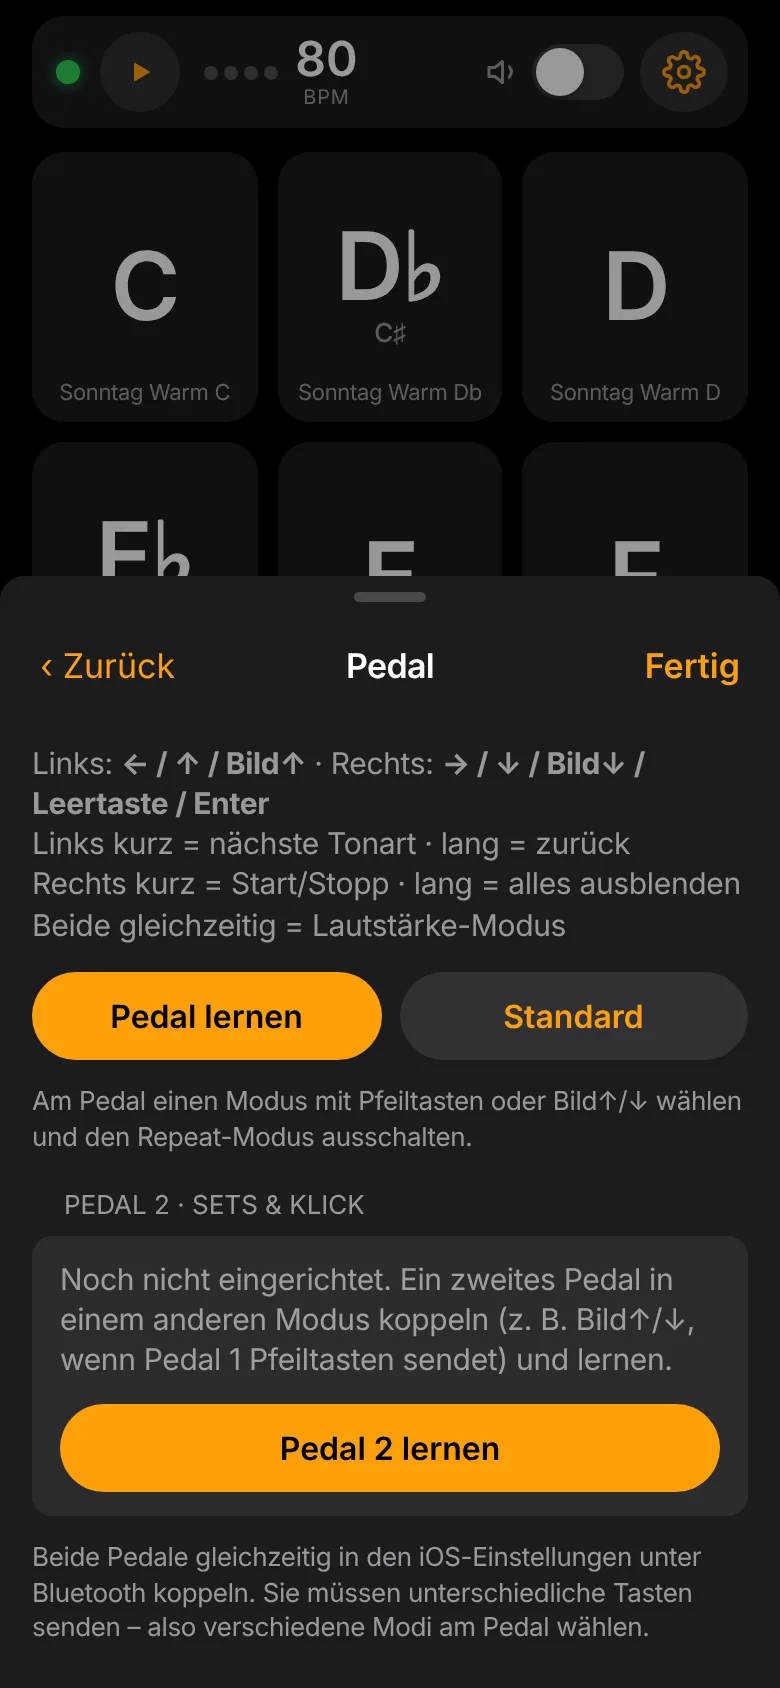
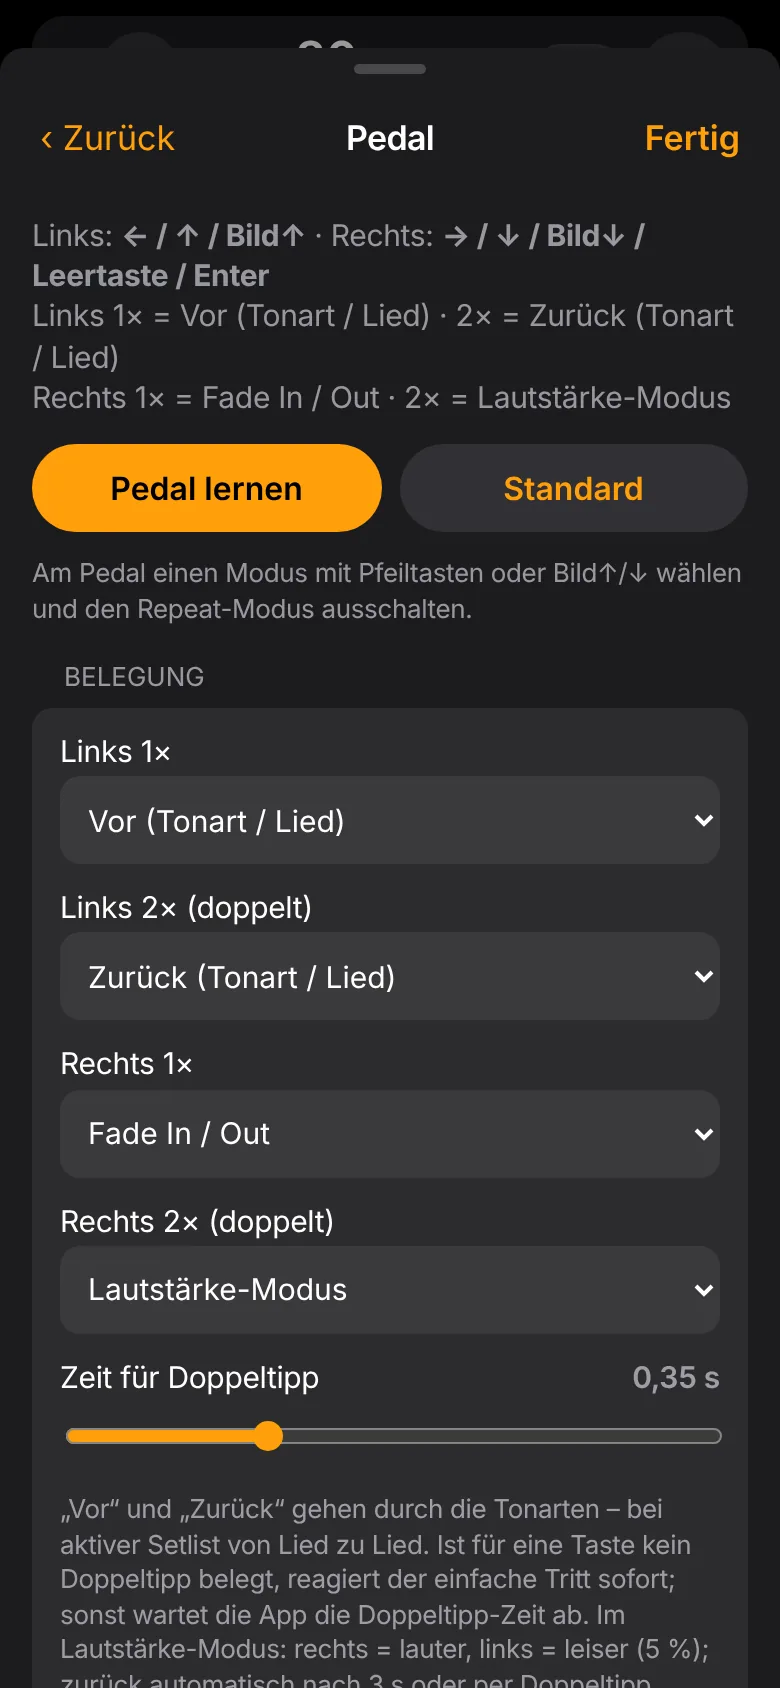
Version 3.2.0: Pedal 1 frei belegbar (Links/Rechts × 1×/2×: Vor, Zurück, Fade In/Out, Lautstärke-Modus, nichts), Doppeltipp-Zeit einstellbar; Anleitung angepasst
Claude-Session: https://claude.ai/code/session_0147wDrskXbm4k3nvnf9uujt

diff --git a/index.html b/index.html
@@ -587,8 +587,16 @@ body.muted .mrow2 input,body.muted .mrow2 .pct{opacity:.4}
     <p id="pedalInfo"></p>
     <div class="row"><button class="btn accent" id="learnBtn">Pedal lernen</button><button class="btn" id="pedalReset">Standard</button></div>
     <p class="hint">Am Pedal einen Modus mit Pfeiltasten oder Bild↑/↓ wählen und den Repeat-Modus ausschalten.</p>
-    <div class="group" id="p_bothRow"><label><span>Beide Tasten gleichzeitig</span><select id="p_both"><option value="fade">Alles ausblenden</option><option value="volume">Lautstärke-Modus</option></select></label>
-      <p class="hint">Dein Pedal meldet kein langes Drücken. Wähle, was ein gleichzeitiger Tritt auf beide Tasten tun soll. Im Lautstärke-Modus: rechts = lauter, links = leiser (je 5 %), zurück automatisch nach 3 Sekunden.</p></div>
+    <h3>Belegung</h3>
+    <div class="group" id="p_map">
+      <label><span>Links 1×</span><select id="pm_lt"><option value="next">Vor (Tonart / Lied)</option><option value="prev">Zurück (Tonart / Lied)</option><option value="fade">Fade In / Out</option><option value="volume">Lautstärke-Modus</option><option value="none">– nichts –</option></select></label>
+      <label><span>Links 2× (doppelt)</span><select id="pm_ld"><option value="next">Vor (Tonart / Lied)</option><option value="prev">Zurück (Tonart / Lied)</option><option value="fade">Fade In / Out</option><option value="volume">Lautstärke-Modus</option><option value="none">– nichts –</option></select></label>
+      <label><span>Rechts 1×</span><select id="pm_rt"><option value="next">Vor (Tonart / Lied)</option><option value="prev">Zurück (Tonart / Lied)</option><option value="fade">Fade In / Out</option><option value="volume">Lautstärke-Modus</option><option value="none">– nichts –</option></select></label>
+      <label><span>Rechts 2× (doppelt)</span><select id="pm_rd"><option value="next">Vor (Tonart / Lied)</option><option value="prev">Zurück (Tonart / Lied)</option><option value="fade">Fade In / Out</option><option value="volume">Lautstärke-Modus</option><option value="none">– nichts –</option></select></label>
+      <label><span>Zeit für Doppeltipp <b id="v_dbl"></b></span><input type="range" id="p_dbl" min="200" max="700" step="25"></label>
+      <p class="hint">„Vor“ und „Zurück“ gehen durch die Tonarten – bei aktiver Setlist von Lied zu Lied. Ist für eine Taste kein Doppeltipp belegt, reagiert der einfache Tritt sofort; sonst wartet die App die Doppeltipp-Zeit ab. Im Lautstärke-Modus: rechts = lauter, links = leiser (5 %); zurück automatisch nach 3 s oder per Doppeltipp.</p>
+      <div class="row"><button class="btn" id="pm_reset">Standard-Belegung</button></div>
+    </div>
     <h3>Pedal 2 · Sets &amp; Klick</h3>
     <div class="group"><p id="pedal2Info"></p>
       <div class="row"><button class="btn accent" id="learn2Btn">Pedal 2 lernen</button><button class="btn" id="pedal2Reset">Entfernen</button></div></div>
@@ -757,7 +765,7 @@ body.muted .mrow2 input,body.muted .mrow2 .pct{opacity:.4}
 
 <script>
 "use strict";
-const VERSION="3.1.0";
+const VERSION="3.2.0";
 // ================= Grundlagen =================
 const KEYS=[["C",null],["D♭","C♯"],["D",null],["E♭","D♯"],["E",null],["F",null],["F♯","G♭"],["G",null],["A♭","G♯"],["A",null],["B♭","A♯"],["B",null]];
 const SETCOLORS=["#ff9f33","#4fc3f7"];
@@ -1114,37 +1122,40 @@ const LONG_MS=600;
 const down={};            // side → {t, timer, longFired}
 let learning=null, lastSide=null, lastSideT=0, fallbackTimer=null, fallbackSide=null;
 function sideOf(key){ if(typeof side2==="function"&&side2(key))return null; if(P.left.includes(key))return "left"; if(P.right.includes(key))return "right"; return null; }
-function action(side,long){
-  if(side==="left"){ if(slOn()){long?stepSong(-1):stepSong(1);} else {long?stepSel(-1):stepSel(1);} }
-  else{ long?fadeAll(S.fadeOut):toggleKey(selected); }
+// ---- Pedal 1: frei belegbare Gesten (links/rechts × einmal/doppelt) ----
+const PEDAL_ACTIONS={next:"Vor (Tonart / Lied)",prev:"Zurück (Tonart / Lied)",fade:"Fade In / Out",volume:"Lautstärke-Modus",none:"– nichts –"};
+const PMAP_DEFAULT={lt:"next",ld:"prev",rt:"fade",rd:"volume"};
+P.map=Object.assign({},PMAP_DEFAULT,P.map||{});if(!P.dbl)P.dbl=350;
+function runPedal(act){
+  if(act==="next"){slOn()?stepSong(1):stepSel(1);}
+  else if(act==="prev"){slOn()?stepSong(-1):stepSel(-1);}
+  else if(act==="fade"){toggleKey(selected);}
+  else if(act==="volume"){volMode?exitVol():enterVol();}
 }
-// ---- Lautstärke-Modus: beide Tasten gleichzeitig → rechts = lauter, links = leiser (halten = stufenlos) ----
-let volMode=false,volExitT=null,volRampT=null,volRampI=null,volLast={left:0,right:0};
+// ---- Lautstärke-Modus: rechts = lauter, links = leiser (halten = stufenlos, falls das Pedal Halten meldet) ----
+let volMode=false,volExitT=null,volRampT=null,volRampI=null,volTap={left:0,right:0},volPrev={left:null,right:null};
 function volHud(){$("volHudVal").textContent=Math.round(S.master*100)+" %";$("volHudBar").style.width=Math.round(S.master*100)+"%";
-  $("volHudHint").innerHTML=P.hold?"rechts halten = lauter · links halten = leiser<br>zurück automatisch nach 3 s":"rechts = lauter · links = leiser<br>zurück automatisch nach 3 s";}
+  $("volHudHint").innerHTML="rechts = lauter · links = leiser"+(P.hold?" · halten = stufenlos":"")+"<br>zurück automatisch nach 3 s";}
 function volArm(){clearTimeout(volExitT);volExitT=setTimeout(()=>exitVol(),3000);}
-function enterVol(){volMode=true;volHud();$("volHud").hidden=false;updateLed();volArm();}
+function enterVol(){volMode=true;volTap={left:0,right:0};volHud();$("volHud").hidden=false;updateLed();volArm();}
 function exitVol(){volMode=false;clearTimeout(volExitT);clearTimeout(volRampT);clearInterval(volRampI);$("volHud").hidden=true;updateLed();}
 function volNudge(d){S.master=Math.round(Math.min(1,Math.max(0,S.master+d))*100)/100;saveSettings();applyMix(0.03);renderLayers();volHud();volArm();}
+const VOL_STEP=.05;
 function volKeyDown(side){
-  const now=performance.now(),other=side==="left"?"right":"left";
-  if(now-volLast[other]<180){exitVol();return;}             // beide gleichzeitig → zurück
-  volLast[side]=now;const dir=side==="right"?1:-1;
-  volNudge(dir*(P.hold?.02:.05));
+  const now=performance.now(),dir=side==="right"?1:-1,dbl=P.map[side==="left"?"ld":"rd"];
+  // Doppeltipp auf die Taste, die den Lautstärke-Modus öffnet → Modus verlassen (zweiten Schritt rückgängig)
+  if(dbl==="volume"&&now-volTap[side]<P.dbl){if(volPrev[side]!=null){S.master=volPrev[side];saveSettings();applyMix(0.03);renderLayers();}exitVol();return;}
+  volTap[side]=now;volPrev[side]=S.master;volNudge(dir*VOL_STEP);
   clearTimeout(volRampT);clearInterval(volRampI);
-  volRampT=setTimeout(()=>{volRampI=setInterval(()=>volNudge(dir*.01),60);},300);
+  volRampT=setTimeout(()=>{volRampI=setInterval(()=>volNudge(dir*.01),60);},350);
 }
 function volKeyUp(){clearTimeout(volRampT);clearInterval(volRampI);}
-function bothPressed(){ if(P.hold||P.both==="volume")enterVol(); else {fadeAll(S.fadeOut);toast("Alles ausblenden");} }
-function pedalEvent(side,isLong){
-  if(P.hold){action(side,isLong);return;}
-  // Fallback ohne Halten
-  const now=performance.now();
-  if(fallbackTimer&&fallbackSide&&fallbackSide!==side){clearTimeout(fallbackTimer);fallbackTimer=null;fallbackSide=null;bothPressed();return;}
-  if(side==="left"&&lastSide==="left"&&now-lastSideT<450){lastSide=null;if(slOn()){stepSong(-1);stepSong(-1);}else stepSel(-2);return;}
-  clearTimeout(fallbackTimer);fallbackSide=side;
-  fallbackTimer=setTimeout(()=>{fallbackTimer=null;fallbackSide=null;action(side,false);},130);
-  lastSide=side;lastSideT=now;
+const pend={left:null,right:null};
+function pedalTap(side){
+  const t=P.map[side==="left"?"lt":"rt"],d=P.map[side==="left"?"ld":"rd"];
+  if(d==="none"){runPedal(t);return;}                    // kein Doppeltipp belegt → sofort reagieren
+  if(pend[side]){clearTimeout(pend[side]);pend[side]=null;runPedal(d);return;}
+  pend[side]=setTimeout(()=>{pend[side]=null;runPedal(t);},P.dbl);
 }
 const typing=e=>e.target&&e.target.tagName==="INPUT"&&(e.target.type==="text"||e.target.type==="password");
 window.addEventListener("keydown",e=>{
@@ -1154,24 +1165,17 @@ window.addEventListener("keydown",e=>{
   e.preventDefault(); markPedal(e.key);
   if(e.repeat||down[side])return;
   unlockAudio();
-  if(volMode){down[side]={vol:true};volKeyDown(side);return;}
-  const now=performance.now(),other=side==="left"?"right":"left",o=down[other];
-  const d={t:now,longFired:false,timer:null};
-  if(P.hold&&o&&!o.longFired&&!o.combo&&now-o.t<250){   // beide Tasten gleichzeitig
-    clearTimeout(o.timer);o.combo=true;d.combo=true;down[side]=d;volLast={left:now,right:now};bothPressed();return;}
-  if(P.hold)d.timer=setTimeout(()=>{d.longFired=true;pedalEvent(side,true);},LONG_MS);
-  down[side]=d;
+  down[side]={t:performance.now()};
+  if(volMode){down[side].vol=true;volKeyDown(side);return;}
+  pedalTap(side);
 },true);
 window.addEventListener("keyup",e=>{
   if(typing(e))return;
   if(learning){e.preventDefault();learnKeyUp(e);return;}
   const side=sideOf(e.key); if(!side)return;
   e.preventDefault();
-  const d=down[side]; delete down[side]; if(!d)return;
-  if(d.vol){volKeyUp();return;}
-  if(d.combo){clearTimeout(d.timer);return;}
-  clearTimeout(d.timer);
-  if(!d.longFired)pedalEvent(side,false);
+  const d=down[side]; delete down[side];
+  if(d&&d.vol)volKeyUp();
 },true);
 function markPedal(key){ $("pedalState").textContent="✓ "+keyName(key); $("pedalState").className="okc"; }
 function keyName(k){return {" ":"Leertaste","ArrowLeft":"←","ArrowRight":"→","ArrowUp":"↑","ArrowDown":"↓","PageUp":"Bild↑","PageDown":"Bild↓","Enter":"Enter"}[k]||k;}
@@ -1197,7 +1201,12 @@ function learnKeyDown(e){
   if(L.step==="left"&&!e.repeat){L.left=e.key;L.step="right";learnUI();}
   else if(L.step==="right"&&!e.repeat){
     if(e.key===L.left){$("learnSub").textContent="Das war wieder die linke Taste – bitte die RECHTE.";return;}
-    L.right=e.key;L.step="hold";L.events=[];learnUI();
+    L.right=e.key;
+    if(L.which!==2){P={left:[L.left],right:[L.right],hold:false,map:P.map,dbl:P.dbl};savePedal();
+      if(P2){P2.left=P2.left.filter(k=>k!==L.left&&k!==L.right);P2.right=P2.right.filter(k=>k!==L.left&&k!==L.right);if(!P2.left.length||!P2.right.length)P2=null;savePedal2();updatePedal2Info();}
+      learning=null;$("learnBox").textContent="Fertig ✓";$("learnSub").textContent=`Links = ${keyName(L.left)}, rechts = ${keyName(L.right)}. Die Belegung stellst du unter „Belegung“ ein.`;
+      $("learnCancel").textContent="Schließen";updatePedalInfo();return;}
+    L.step="hold";L.events=[];learnUI();
   }
   else if(L.step==="hold"&&e.key===L.left){
     L.events.push({t:performance.now(),type:"down",repeat:e.repeat});
@@ -1221,23 +1230,23 @@ function finishLearn(){
     $("learnBox").textContent="Pedal 2 fertig ✓";$("learnSub").textContent=`Links = ${keyName(L.left)} (Sets), rechts = ${keyName(L.right)} (Klick). ${note.replace("links doppelt = zurück, beide Tasten = alles aus","doppelt tippen = lange Funktion").replace(/Ersatz:.*$/,"Ersatz: doppelt tippen = lange Funktion.")}`;
     $("learnCancel").textContent="Schließen";updatePedalInfo();updatePedal2Info();return;
   }
-  P={left:[L.left],right:[L.right],hold}; savePedal();
+  P={left:[L.left],right:[L.right],hold,map:P.map,dbl:P.dbl}; savePedal();
   if(P2){P2.left=P2.left.filter(k=>k!==L.left&&k!==L.right);P2.right=P2.right.filter(k=>k!==L.left&&k!==L.right);if(!P2.left.length||!P2.right.length)P2=null;savePedal2();updatePedal2Info();}
   learning=null;
   $("learnBox").textContent="Fertig ✓"; $("learnSub").textContent=`Links = ${keyName(P.left[0])}, rechts = ${keyName(P.right[0])}. ${note}`;
   $("learnCancel").textContent="Schließen"; updatePedalInfo();
 }
 $("learnBtn").onclick=startLearn;
-$("p_both").onchange=()=>{P.both=$("p_both").value;savePedal();updatePedalInfo();};
+for(const k of ["lt","ld","rt","rd"])$("pm_"+k).onchange=()=>{P.map[k]=$("pm_"+k).value;savePedal();updatePedalInfo();};
+$("p_dbl").oninput=()=>{P.dbl=+$("p_dbl").value;savePedal();updatePedalInfo();};
+$("pm_reset").onclick=()=>{P.map=Object.assign({},PMAP_DEFAULT);P.dbl=350;savePedal();updatePedalInfo();toast("Standard-Belegung");};
 $("learnCancel").onclick=()=>{ if(learning&&learning.timer)clearTimeout(learning.timer); learning=null; $("learnSheet").classList.remove("open"); $("learnCancel").textContent="Abbrechen"; };
-$("pedalReset").onclick=()=>{P=Object.assign({},PEDAL_DEFAULT);if(P2){const k=[...P2.left,...P2.right];P.left=P.left.filter(x=>!k.includes(x));P.right=P.right.filter(x=>!k.includes(x));}savePedal();updatePedalInfo();toast("Pedal: Standardbelegung");};
+$("pedalReset").onclick=()=>{P=Object.assign({},PEDAL_DEFAULT,{map:Object.assign({},PMAP_DEFAULT),dbl:350});if(P2){const k=[...P2.left,...P2.right];P.left=P.left.filter(x=>!k.includes(x));P.right=P.right.filter(x=>!k.includes(x));}savePedal();updatePedalInfo();toast("Pedal: Standardbelegung");};
 function updatePedalInfo(){
-  const l=P.left.map(keyName).join(" / "), r=P.right.map(keyName).join(" / ");
-  $("pedalInfo").innerHTML=`Links: <b>${l}</b> · Rechts: <b>${r}</b><br>`+(P.hold
-    ?"Links kurz = nächste Tonart · lang = zurück<br>Rechts kurz = Start/Stopp · lang = alles ausblenden"
-    :"Links = nächste Tonart · doppelt = zurück<br>Rechts = Start/Stopp · beide gleichzeitig = "+(P.both==="volume"?"Lautstärke-Modus":"alles ausblenden"))+
-    (P.hold?"<br>Beide gleichzeitig = Lautstärke-Modus":"");
-  const bs=$("p_both");if(bs){bs.value=P.both==="volume"?"volume":"fade";$("p_bothRow").style.display=P.hold?"none":"";}
+  const l=P.left.map(keyName).join(" / "), r=P.right.map(keyName).join(" / "),A=k=>PEDAL_ACTIONS[P.map[k]];
+  $("pedalInfo").innerHTML=`Links: <b>${l}</b> · Rechts: <b>${r}</b><br>Links 1× = ${A("lt")} · 2× = ${A("ld")}<br>Rechts 1× = ${A("rt")} · 2× = ${A("rd")}`;
+  for(const k of ["lt","ld","rt","rd"]){const s=$("pm_"+k);if(s)s.value=P.map[k];}
+  const d=$("p_dbl");if(d){d.value=P.dbl;$("v_dbl").textContent=(P.dbl/1000).toFixed(2).replace(".",",")+" s";}
 }
 
 // ================= Oberfläche =================

diff --git a/anleitung.html b/anleitung.html
@@ -87,7 +87,7 @@
   .ptabs{display:flex;background:#efebe4;border-radius:10px;padding:3px;gap:2px;margin-bottom:12px}
   .ptabs button{flex:1;border:0;background:none;border-radius:8px;font:600 14px var(--font);color:var(--dim);padding:8px 4px;cursor:pointer}
   .ptabs button.on{background:#fff;color:var(--ink);box-shadow:0 1px 3px rgba(0,0,0,.12)}
-  .pgrid{display:grid;grid-template-columns:1fr minmax(180px,260px) 1fr;grid-template-areas:"l p r" ". b .";gap:10px 14px;align-items:center}
+  .pgrid{display:grid;grid-template-columns:1fr minmax(180px,260px) 1fr;grid-template-areas:"l p r";gap:10px 14px;align-items:center}
   .pedal{grid-area:p;width:100%;height:auto;filter:drop-shadow(0 8px 16px rgba(0,0,0,.18))}
   .pedal text{font:700 28px var(--font);fill:#fff;opacity:.85}
   .pedal .brand{font:600 8px var(--font);letter-spacing:.2em;opacity:.35}
@@ -104,7 +104,7 @@
   .pcard i{font-style:normal;font-size:12px;color:var(--dim)}
   .pcard b{font-size:15px}
   .pnote{margin:12px 2px 0;font-size:14.5px;color:#3a3a3e}
-  @media(max-width:620px){.pgrid{grid-template-columns:1fr 1fr;grid-template-areas:"p p" "l r" "b b"}.pedal{max-width:260px;justify-self:center}}
+  @media(max-width:620px){.pgrid{grid-template-columns:1fr 1fr;grid-template-areas:"p p" "l r"}.pedal{max-width:260px;justify-self:center}}
   /* Fuß */
   footer{display:flex;align-items:center;gap:10px;padding:10px 14px calc(env(safe-area-inset-bottom) + 10px);border-top:1px solid var(--line);background:var(--bg)}
   .nav{border:0;border-radius:999px;font:700 15px var(--font);padding:12px 18px;cursor:pointer;background:var(--card);color:var(--ink);border:1px solid var(--line);min-width:52px}
@@ -324,13 +324,13 @@
     <div>
       <p class="kicker">Pedal</p>
       <h2>Mit dem Fußpedal steuern</h2>
-      <p>Geeignet ist ein Bluetooth-Umblätterpedal mit zwei Tasten, z. B. von <b>Tavsou</b>. Jede Taste kennt <b>kurz</b> (antippen) und <b>lang</b> (gut eine halbe Sekunde halten). Tippe unten auf einen Modus, um die Belegung zu sehen.</p>
+      <p>Geeignet ist ein Bluetooth-Umblätterpedal mit zwei Tasten, z. B. von <b>Tavsou</b>. Jede Taste kennt <b>1× tippen</b> und <b>2× tippen</b> (kurz hintereinander) – zusammen vier Gesten, die du frei belegen kannst. Tippe unten auf einen Modus, um die Belegung zu sehen.</p>
       <div class="pdemo">
         <div class="ptabs" role="tablist">
           <button class="on" data-m="normal">Normal</button><button data-m="setlist">Setlist</button><button data-m="volume">Lautstärke</button><button data-m="p2">Pedal 2</button>
         </div>
         <div class="pgrid">
-          <div class="pcard l"><span class="ph">Links</span><div><i>kurz</i><b data-k="lk"></b></div><div><i>lang</i><b data-k="ll"></b></div></div>
+          <div class="pcard l"><span class="ph">Links</span><div><i data-k="a1"></i><b data-k="lk"></b></div><div><i data-k="a2"></i><b data-k="ll"></b></div></div>
           <svg class="pedal" viewBox="0 0 260 170" role="img" aria-label="Stilisiertes Pedal mit zwei Tasten">
             <defs><linearGradient id="pb" x1="0" y1="0" x2="0" y2="1"><stop offset="0" stop-color="#3a3a3c"/><stop offset="1" stop-color="#1c1c1e"/></linearGradient>
               <radialGradient id="kb" cx=".5" cy=".35" r=".7"><stop offset="0" stop-color="#5a5a5e"/><stop offset="1" stop-color="#2c2c2e"/></radialGradient></defs>
@@ -341,8 +341,7 @@
             <g class="key kr"><circle cx="182" cy="96" r="40" fill="url(#kb)" stroke="#000" stroke-opacity=".6" stroke-width="2"/><text x="182" y="104" text-anchor="middle">R</text></g>
             <text class="brand" x="130" y="146" text-anchor="middle">BLUETOOTH</text>
           </svg>
-          <div class="pcard r"><span class="ph">Rechts</span><div><i>kurz</i><b data-k="rk"></b></div><div><i>lang</i><b data-k="rl"></b></div></div>
-          <div class="pcard both"><span class="ph">Beide gleichzeitig</span><b data-k="both"></b></div>
+          <div class="pcard r"><span class="ph">Rechts</span><div><i data-k="a1"></i><b data-k="rk"></b></div><div><i data-k="a2"></i><b data-k="rl"></b></div></div>
         </div>
         <p class="pnote" data-k="note"></p>
       </div>
@@ -350,9 +349,10 @@
       <ol class="steps">
         <li>Stelle das Pedal auf den Modus mit <b>Pfeiltasten</b> oder <b>Bild↑/Bild↓</b> (siehe Anleitung des Pedals) und schalte den <b>Repeat-Modus aus</b>.</li>
         <li>iPhone/iPad: <span class="ui">Einstellungen</span> → <span class="ui">Bluetooth</span> → Pedal antippen.</li>
-        <li>In der App: <span class="ui">⚙</span> → <span class="ui">🦶 Pedal</span> → <span class="ui o">Pedal lernen</span>. Folge der Anzeige: links kurz, rechts kurz, dann links etwa 2 Sekunden halten.</li>
+        <li>In der App: <span class="ui">⚙</span> → <span class="ui">🦶 Pedal</span> → <span class="ui o">Pedal lernen</span>: einmal links, einmal rechts treten.</li>
+        <li>Unter <b>Belegung</b> für Links 1×, Links 2×, Rechts 1× und Rechts 2× wählen: Vor, Zurück, Fade In/Out, Lautstärke-Modus oder nichts.</li>
       </ol>
-      <div class="box"><b>Pedal kennt kein „lang“?</b><p>Manche Pedale melden langes Drücken nicht. Die App merkt das beim Lernen und stellt um: <b>links doppelt tippen</b> = Tonart zurück. Was <b>beide Tasten gleichzeitig</b> tun, wählst du unter ⚙ → Pedal: <i>Alles ausblenden</i> oder <i>Lautstärke-Modus</i>. Im Lautstärke-Modus ändert dann jeder Tritt die Lautstärke um 5 %.</p></div>
+      <div class="box"><b>Doppeltipp-Zeit</b><p>Ist für eine Taste ein Doppeltipp belegt, wartet die App nach dem ersten Tritt kurz ab (Standard 0,35 s), ob ein zweiter kommt. Ist kein Doppeltipp belegt, reagiert der Tritt sofort. Die Zeit stellst du unter ⚙ → Pedal ein – kürzer = schneller, länger = sicherer für langsame Doppeltritte.</p></div>
       <div class="box tip"><b>Bildschirmtastatur weg?</b><p>Solange ein Pedal verbunden ist, blendet iOS die Tastatur in anderen Apps aus. Bluetooth am Pedal aus- und wieder einschalten hilft.</p></div>
     </div>
   </div>
@@ -373,10 +373,11 @@
       </ol>
       <h3>Pedal im Setlist-Modus</h3>
       <table>
-        <tr><th></th><th>kurz</th><th>lang</th></tr>
+        <tr><th></th><th>1×</th><th>2×</th></tr>
         <tr><td><b>Links</b></td><td>nächstes Lied (ein laufendes Pad blendet direkt über)</td><td>Lied zurück</td></tr>
-        <tr><td><b>Rechts</b></td><td>Pad Start / Stopp</td><td>alles ausblenden</td></tr>
+        <tr><td><b>Rechts</b></td><td>Pad Fade In / Out</td><td>Lautstärke-Modus</td></tr>
       </table>
+      <p style="color:var(--dim);font-size:14.5px">Standard-Belegung – frei änderbar unter ⚙ → Pedal.</p>
       <p>Ohne Pedal blätterst du mit <span class="ui">‹</span> <span class="ui">›</span> in der Leiste. Ein Tipp auf die Leiste öffnet die ganze Liste, und ein Tipp auf ein Lied springt direkt dorthin.</p>
       <h3>So liest die App die Tonarten</h3>
       <ul class="dots">
@@ -611,14 +612,14 @@ tocSheet.addEventListener("click",e=>{if(e.target===tocSheet)tocSheet.classList.
 
 // Pedal-Grafik: Belegung je Modus
 const PMODES={
-  normal:{lk:"nächste Tonart",ll:"Tonart zurück",rk:"Tonart starten / ausblenden",rl:"alles ausblenden",both:"Lautstärke-Modus an",
-    note:"Die Reihenfolge der Tonarten folgt den Kacheln – mit dem Quintenzirkel springst du C → G → D …"},
-  setlist:{lk:"nächstes Lied (laufendes Pad blendet über)",ll:"Lied zurück",rk:"Pad starten / ausblenden",rl:"alles ausblenden",both:"Lautstärke-Modus an",
-    note:"Gilt, solange eine Setlist aus Planning Center aktiv ist. Lieder ohne Tonart werden übersprungen."},
-  volume:{lk:"etwas leiser",ll:"stufenlos leiser, solange du hältst",rk:"etwas lauter",rl:"stufenlos lauter, solange du hältst",both:"zurück zum normalen Modus",
-    note:"Die LED oben in der App wird blau, in der Mitte erscheint groß die Lautstärke. Nach 3 Sekunden ohne Tritt geht es automatisch zurück – du kannst nicht „hängen bleiben“. Geregelt wird die Gesamtlautstärke; die Überblendung zwischen Pad 1 und Pad 2 bleibt."},
-  p2:{lk:"nächstes Set für Pad 2 (inkl. „Leer“)",ll:"Set für Pad 2 zurück",rk:"Klick an / aus",rl:"Einzähler, danach läuft der Klick",both:"–",
-    note:"Optional: ein zweites Pedal, das andere Tasten sendet (z. B. Bild↑/↓). Einrichten unter ⚙ → Pedal → „Pedal 2 lernen“."}
+  normal:{a1:"1× tippen",a2:"2× tippen",lk:"vor (nächste Tonart)",ll:"zurück",rk:"Fade In / Out",rl:"Lautstärke-Modus",
+    note:"Das ist die Standard-Belegung. Jede der vier Gesten kannst du unter ⚙ → Pedal → „Belegung“ frei wählen: Vor, Zurück, Fade In/Out, Lautstärke-Modus oder nichts."},
+  setlist:{a1:"1× tippen",a2:"2× tippen",lk:"nächstes Lied (laufendes Pad blendet über)",ll:"Lied zurück",rk:"Fade In / Out",rl:"Lautstärke-Modus",
+    note:"„Vor“ und „Zurück“ springen von Lied zu Lied, solange eine Setlist aus Planning Center aktiv ist. Lieder ohne Tonart werden übersprungen."},
+  volume:{a1:"1× tippen",a2:"halten",lk:"5 % leiser",ll:"stufenlos leiser (falls das Pedal Halten meldet)",rk:"5 % lauter",rl:"stufenlos lauter (falls das Pedal Halten meldet)",
+    note:"Die LED oben in der App wird blau, in der Mitte erscheint groß die Lautstärke. Zurück geht es automatisch nach 3 Sekunden ohne Tritt – oder mit einem Doppeltipp auf die Taste, die den Lautstärke-Modus geöffnet hat. Geregelt wird die Gesamtlautstärke; die Überblendung bleibt."},
+  p2:{a1:"kurz",a2:"lang",lk:"nächstes Set für Pad 2 (inkl. „Leer“)",ll:"Set für Pad 2 zurück",rk:"Klick an / aus",rl:"Einzähler, danach läuft der Klick",
+    note:"Optional: ein zweites Pedal, das andere Tasten sendet (z. B. Bild↑/↓). Einrichten unter ⚙ → Pedal → „Pedal 2 lernen“. Meldet es kein Halten, gilt doppelt tippen = lang."}
 };
 document.querySelectorAll(".pdemo").forEach(box=>{
   const set=m=>{box.dataset.m=m;const d=PMODES[m];box.querySelectorAll("[data-k]").forEach(el=>el.textContent=d[el.dataset.k]);

diff --git a/sw.js b/sw.js
@@ -1,6 +1,6 @@
 // Offline-Speicher für AmbientPad Live.
 // Bei jeder neuen Version VERSION erhöhen.
-const VERSION = "3.1.0";
+const VERSION = "3.2.0";
 const CACHE = "ambientpad-" + VERSION;
 const PADCACHE = "ambientpad-pads-v1";   // Standard-Pads: bleiben über App-Updates hinweg erhalten
 const FILES = ["./", "index.html", "manifest.webmanifest", "icon-192.png", "icon-512.png", "apple-touch-icon.png", "anleitung.html",
